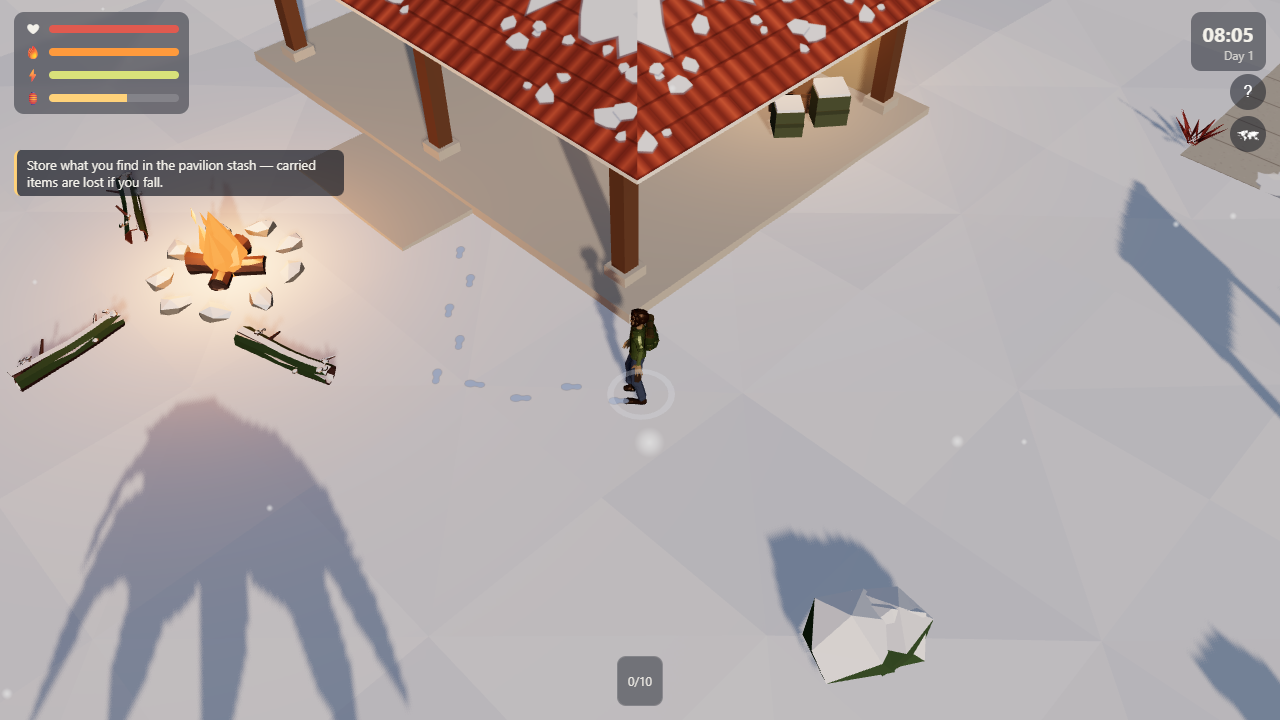
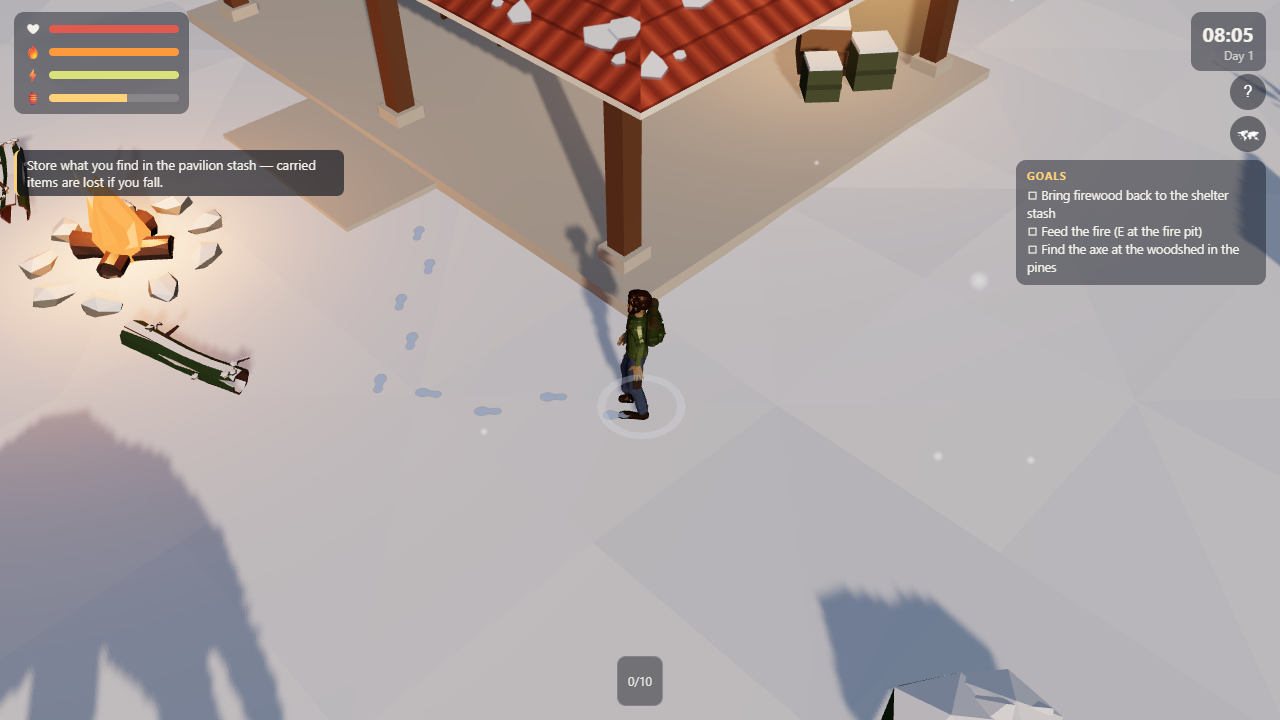
Goals checklist for first-time players, phone help/goals layout, debug error toasts

diff --git a/src/ui/style.css b/src/ui/style.css
@@ -22,6 +22,12 @@ html, body { margin: 0; height: 100%; overflow: hidden; background: #1b2230; fon
 .meter.oil > div { background: #ffd27a; }
 #clock { position: absolute; right: max(14px, env(safe-area-inset-right)); top: max(12px, env(safe-area-inset-top)); background: rgba(15,20,30,.45); padding: 8px 12px; border-radius: 10px; text-align: right; display: flex; flex-direction: column; font-variant-numeric: tabular-nums; }
 #clock-time { font-size: 20px; font-weight: 700; }
+#goals { position: absolute; right: max(14px, env(safe-area-inset-right)); top: 160px; width: 250px; background: rgba(15,20,30,.45); border-radius: 10px; padding: 8px 11px; font-size: 12.5px; line-height: 1.45; }
+#goals b { display: block; font-size: 11px; letter-spacing: .08em; text-transform: uppercase; color: #ffd27a; margin-bottom: 2px; }
+body.touch #goals { top: 124px; left: 12px; right: auto; width: min(62vw, 260px); font-size: 11.5px; padding: 5px 9px; }
+body.touch #goals div:nth-child(n+3) { display: none; }
+body.touch #toasts { top: 178px; max-width: 70vw; }
+@media (max-width: 640px) { #goals { width: 190px; font-size: 11.5px; } }
 #clock-day { font-size: 12px; opacity: .75; }
 .corner-btn { pointer-events: auto; position: absolute; top: 74px; right: max(14px, env(safe-area-inset-right)); width: 36px; height: 36px; border-radius: 50%; border: none; background: rgba(15,20,30,.5); color: #fff; font-size: 16px; cursor: pointer; }
 #btn-map { top: 116px; }
@@ -48,7 +54,7 @@ html, body { margin: 0; height: 100%; overflow: hidden; background: #1b2230; fon
 #damage-vignette { background: radial-gradient(ellipse at center, transparent 55%, rgba(170,20,20,.65) 100%); transition: opacity .35s; }
 #cold-vignette { background: radial-gradient(ellipse at center, transparent 45%, rgba(170,210,255,.55) 100%); transition: opacity 1s; }
 #fade { background: #0b0f16; transition: opacity 1.2s; }
-#shelter-panel { position: absolute; right: max(14px, env(safe-area-inset-right)); top: 160px; width: 260px; background: rgba(15,20,30,.78); border-radius: 12px; padding: 12px; pointer-events: auto; font-size: 13px; }
+#shelter-panel { position: absolute; right: max(14px, env(safe-area-inset-right)); top: 160px; z-index: 2; width: 260px; background: rgba(15,20,30,.78); border-radius: 12px; padding: 12px; pointer-events: auto; font-size: 13px; }
 #shelter-panel h3 { margin: 0 0 6px; font-size: 15px; }
 #shelter-panel .row { display: flex; justify-content: space-between; margin: 3px 0; }
 #shelter-panel button { pointer-events: auto; width: 100%; margin-top: 6px; padding: 7px; border-radius: 7px; border: none; background: #3b4a63; color: #fff; font-size: 13px; cursor: pointer; text-align: left; }
@@ -80,7 +86,9 @@ body.touch #progress { bottom: 236px; }
 .help-box ul { margin: 0; padding-left: 18px; font-size: 14px; line-height: 1.55; }
 .help-box .cols { display: grid; grid-template-columns: 1fr 1fr; gap: 18px; }
 @media (max-width: 640px) { .help-box .cols { grid-template-columns: 1fr; } .help-box { padding: 16px; } }
-.help-actions { margin-top: 18px; display: flex; gap: 10px; }
+.help-actions { margin-top: 18px; display: flex; gap: 10px; position: sticky; bottom: -22px; background: #1d2635; padding: 10px 0 14px; }
+body.touch .kbd-help { display: none; }
+body.touch .help-box .cols { grid-template-columns: 1fr; }
 .help-actions button { padding: 10px 22px; border-radius: 9px; border: none; font-size: 15px; font-weight: 700; cursor: pointer; background: #3b4a63; color: #fff; }
 .help-actions button.primary { background: #e08a3c; }
 

diff --git a/src/systems/goals.js b/src/systems/goals.js
@@ -1,0 +1,36 @@
+// Lightweight goals that point new players at the loop (no scripted missions).
+// Each goal checks game state; the first few unfinished ones are shown under the clock.
+export const GOALS = [
+  { id: 'wood', text: 'Bring firewood back to the shelter stash', done: (g) => g.shelter.stash.count('wood') >= 5 || g.stats.woodBurned >= 1 },
+  { id: 'feed', text: 'Feed the fire (E at the fire pit)', done: (g) => g.stats.woodBurned >= 1 },
+  { id: 'axe', text: 'Find the axe at the woodshed in the pines', done: (g) => g.tools.axe },
+  { id: 'search', text: 'Search 3 porches, cars or mailboxes', done: (g) => g.stats.searched >= 3 },
+  { id: 'gun', text: 'Check the police cruiser on Hibiscus Lane', done: (g) => g.tools.pistol },
+  { id: 'meds', text: 'Scavenge the Pelican Pharmacy', done: (g) => g.interact.list.some((i) => i.label === 'Search pharmacy aisles' && i.used) },
+  { id: 'build', text: 'Improve the shelter (open the stash)', done: (g) => Object.values(g.shelter.upgrades).some(Boolean) },
+  { id: 'dog', text: 'Win over the stray dog at the playground', done: (g) => g.stats.dog },
+  { id: 'night', text: 'Survive a night', done: (g) => g.daynight.day >= 2 },
+  { id: 'all', text: 'Build all four shelter improvements', done: (g) => Object.values(g.shelter.upgrades).every(Boolean) },
+];
+
+export class Goals {
+  constructor(game) {
+    this.game = game; this.done = new Set();
+    this.el = document.createElement('div'); this.el.id = 'goals';
+    document.getElementById('hud').appendChild(this.el);
+    this.t = 0; this.html = '';
+  }
+  update(dt) {
+    this.t += dt; if (this.t < 0.5) return; this.t = 0;
+    const g = this.game;
+    for (const goal of GOALS) {
+      if (!this.done.has(goal.id) && goal.done(g)) {
+        this.done.add(goal.id);
+        if (g.started) { g.ui.toast(`✓ ${goal.text}`, 'good', 3500); g.audio?.pickup(); }
+      }
+    }
+    const open = GOALS.filter((x) => !this.done.has(x.id)).slice(0, 3);
+    const html = open.length ? `<b>Goals</b>${open.map((x) => `<div>◻ ${x.text}</div>`).join('')}` : '<b>Goals</b><div>All done — keep the fire burning.</div>';
+    if (html !== this.html) { this.el.innerHTML = html; this.html = html; }
+  }
+}

diff --git a/src/main.js b/src/main.js
@@ -18,6 +18,7 @@ import { Audio } from './systems/audio.js';
 import { UI } from './ui/hud.js';
 import { PAL } from './palette.js';
 import { makeSeeThrough, updateSeeThrough } from './core/seethrough.js';
+import { Goals } from './systems/goals.js';
 
 const params = new URLSearchParams(location.search);
 const SAVE_KEY = 'sarno-survive-save-v1';
@@ -77,6 +78,8 @@ class Game {
     this.interact = new Interactions(this, this.world.interact);
     this.audio = new Audio();
     this.ui = new UI(this);
+    this.goals = new Goals(this);
+    this.goals.update(1);
     if (params.has('t')) this.daynight.hour = parseFloat(params.get('t'));
     if (!params.has('fresh')) this.load();
     if (params.has('at')) { const [x, z] = params.get('at').split(',').map(Number); this.player.setPosition(x, z); }
@@ -95,6 +98,7 @@ class Game {
     this.last = performance.now();
     this.renderer.setAnimationLoop(() => this.frame());
     window.__game = this;
+    if (params.has('debug')) addEventListener('error', (e) => this.ui.toast('JS error: ' + e.message, 'bad', 10000));
   }
 
   start() {
@@ -178,6 +182,7 @@ class Game {
     const a = areaAt(this.player.pos.x, this.player.pos.z);
     if (a && a.id !== this.areaId) { this.areaId = a.id; this.ui.banner(a); this.stats.areas.add(a.id); }
     this.ui.update();
+    this.goals.update(dt);
     this._saveT = (this._saveT || 0) + dt;
     if (this._saveT > 30) { this._saveT = 0; this.save(); }
   }

diff --git a/index.html b/index.html
@@ -63,7 +63,7 @@
       <h2>Sarno Survive</h2>
       <p>The power's gone and South Florida is under snow. Leave the pavilion shelter, find supplies and firewood, bring them back, and keep the fire going.</p>
       <div class="cols">
-        <div>
+        <div class="kbd-help">
           <h3>Keyboard &amp; mouse</h3>
           <ul>
             <li><b>WASD / arrows</b> move · <b>Shift</b> sprint</li>
